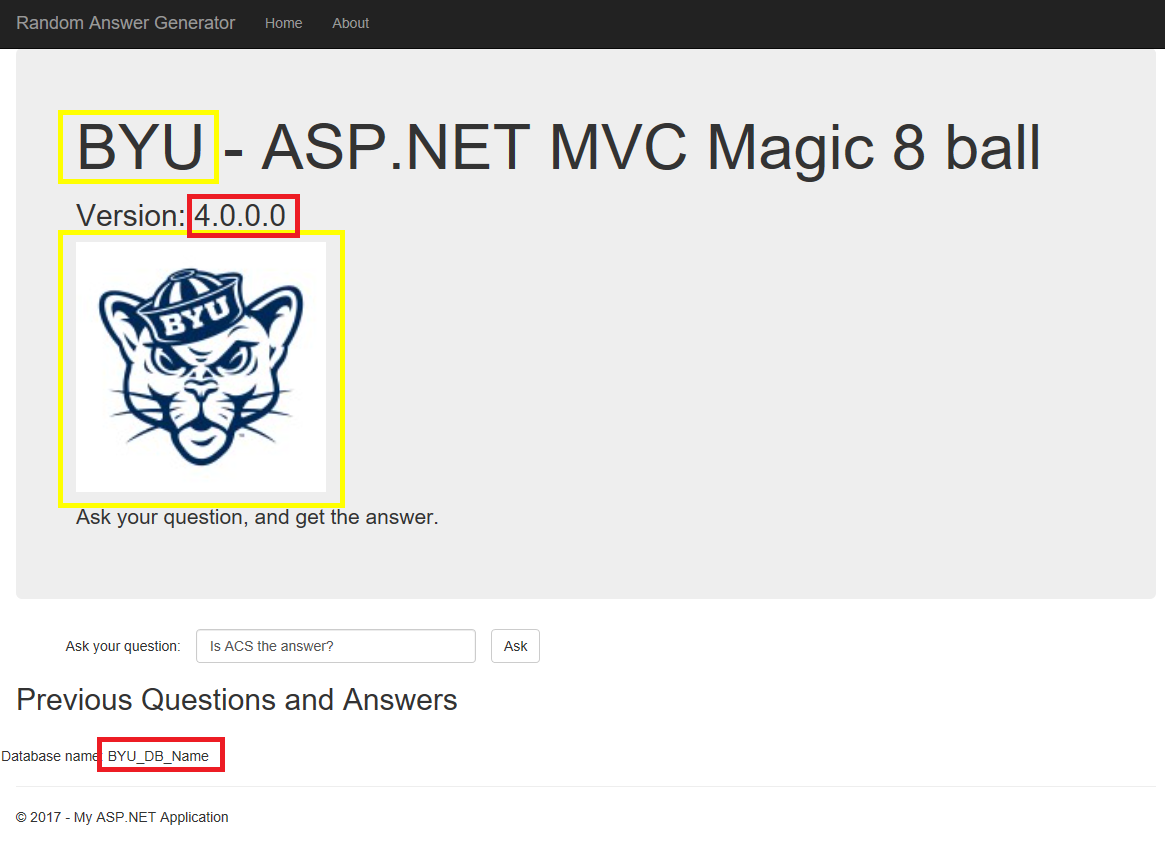
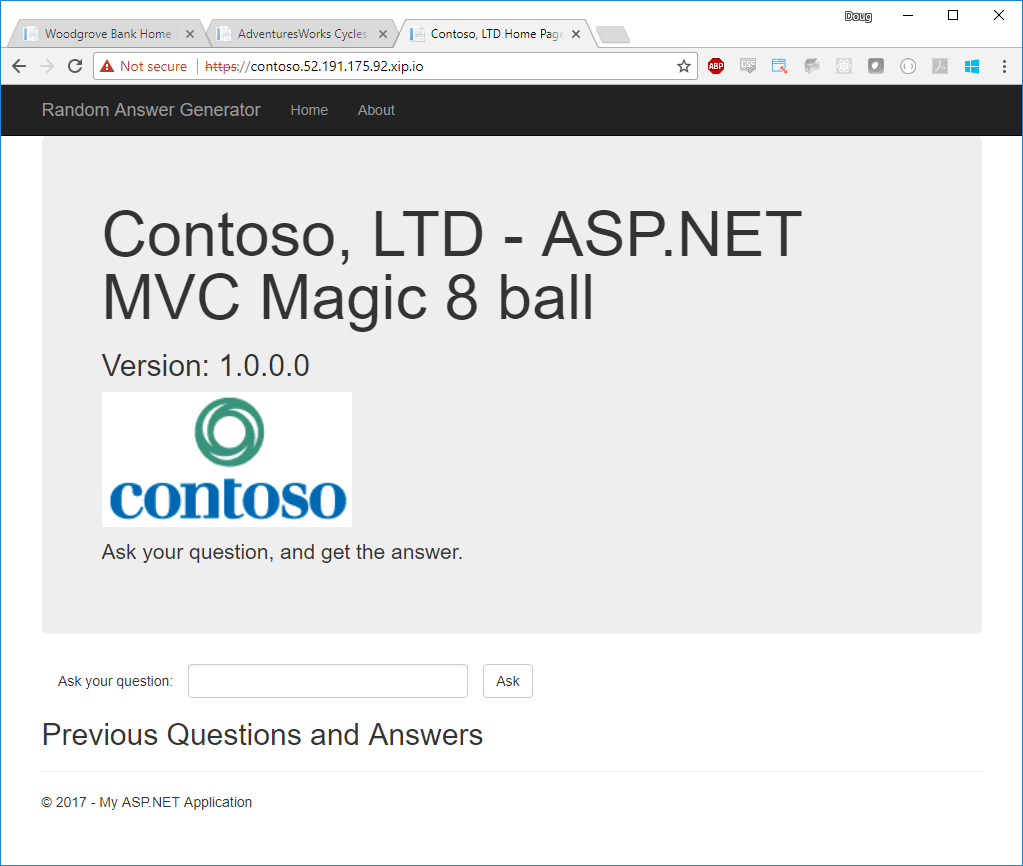
Added deployments of customer facing applications

diff --git a/README.md b/README.md
@@ -271,7 +271,79 @@ Add `/healthz` to the URL and you will receive the following:
 
 ![](img/defaultBackendHealthz.png)
 
+## Create the pods, service, and ingress rules for our customers.
 
+For our scenario we will be deploying apps for 3 different customers. For each of these customers we deploy the following Kubernetes resources. Explore the 3 app1-*.yaml files to discover what is going on. 
+
+1. **A deplyoment of app1** - the deployment creates 2 instances of the pods on the **Windows** cluster nodes. The spec for the containers specifies environment settings specific to each customer.
+2. **A service** - the ClusterIP service exposes the pods internally within the cluster.
+3. **Ingress rules** - the ingress rules are loaded by the NGINX Ingress controller we created earlier and tell NGXINX how to direct traffic to the service and which TLS certificate to use based on the host name of the incoming request.
+
+> **Important**: Open each of the app1-*.yaml files and update the hostnames on lines 61 and 64 to match your IP address. Save the files before continuing.
+
+Create these applications by running the following:
+
+```
+kubectl apply -f app1-adventureworks.yaml
+kubectl apply -f app1-contoso.yaml
+kubectl apply -f app1-woodgrovebank.yaml
+```
+
+These will take some time to create. The Windows image used for the applications, [dougperkes/mvcrandomanswergenerator](https://hub.docker.com/r/dougperkes/mvcrandomanswergenerator/tags/) is 6 GB in size so the image must be downloaded to the cluster so that it can be cached. Once the image is downloaded the containers will be spun up in the pod and Kubernetes will wait until it recevies an HTTP 200 response on the root path `/` as defined in the `readinessProbe` settings in the yaml file.
+
+You can monitor the deployment by running either `kubectl get pods` or `kubectl get deployments`. For example:
+```bash
+dougper@RLMFACEBOOK0571:/mnt/c/dev/dougper/azure-acs-hybrid-cluster-migration/k8s$ kubectl get deployments
+NAME                         DESIRED   CURRENT   UP-TO-DATE   AVAILABLE   AGE
+app1-adventureworks-deploy   2         2         2            2           3m
+app1-contoso-deploy          2         2         2            2           4m
+app1-woodgrovebank-deploy    2         2         2            2           11m
+default-http-backend         2         2         2            2           44m
+nginx-ingress-controller     2         2         2            2           59m
+```
+
+Browse to the applications using https and the hostnames specified in the yaml files, i.e. `https://contoso.[your EXTERNAL-IP].xip.io/`. 
+
+# Upgrading the image for your pods
+
+There a several different ways to update the application. Once changes are made to the image and pushed to a container registry, you can update the deployment with the new container image. Because we are using Kubernetes deployments, the updates happen using a rolling update method.
+
+### Option 1: Use kubectl to set a new image.
+
+```bash
+kubectl set image deployment/app1-adventureworks-deploy app1-adventureworks=dougperkes/mvcrandomanswergenerator:v2
+```
+
+Monitor the rollout of the new pods and termination of the previous version pods.
+
+```bash
+kubectl rollout status deployment/app1-adventureworks-deploy
+```
+
+### Option 2: Update the .yaml file and re-apply.
+
+Open the `app1-contoso.yaml` file and change the image to `dougperkes/mvcrandomanswergenerator:v2`. Save the file and run the following:
+
+```bash
+kubectl apply -f app1-contoso.yaml
+```
+
+Monitor the rollout of the new pods and termination of the previous version pods.
+
+```bash
+kubectl rollout status deployment/app1-contoso-deploy
+```
+
+This will give you the following:
+
+```
+Waiting for rollout to finish: 1 out of 2 new replicas have been updated...
+Waiting for rollout to finish: 1 out of 2 new replicas have been updated...
+Waiting for rollout to finish: 1 out of 2 new replicas have been updated...
+Waiting for rollout to finish: 1 old replicas are pending termination...
+Waiting for rollout to finish: 1 old replicas are pending termination...
+deployment "app1-contoso-deploy" successfully rolled out
+```
 
 # Cleaning up your cluster
 
